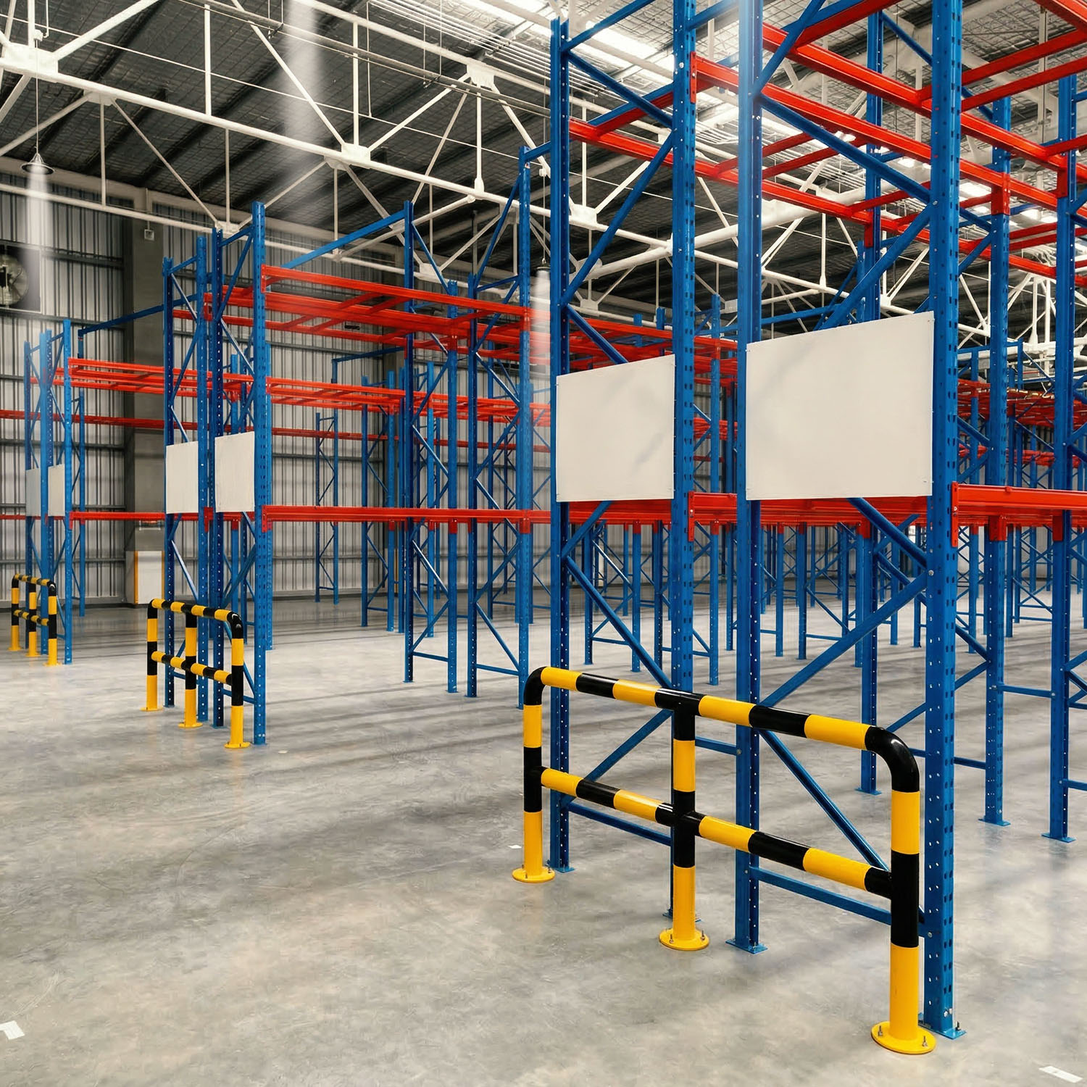
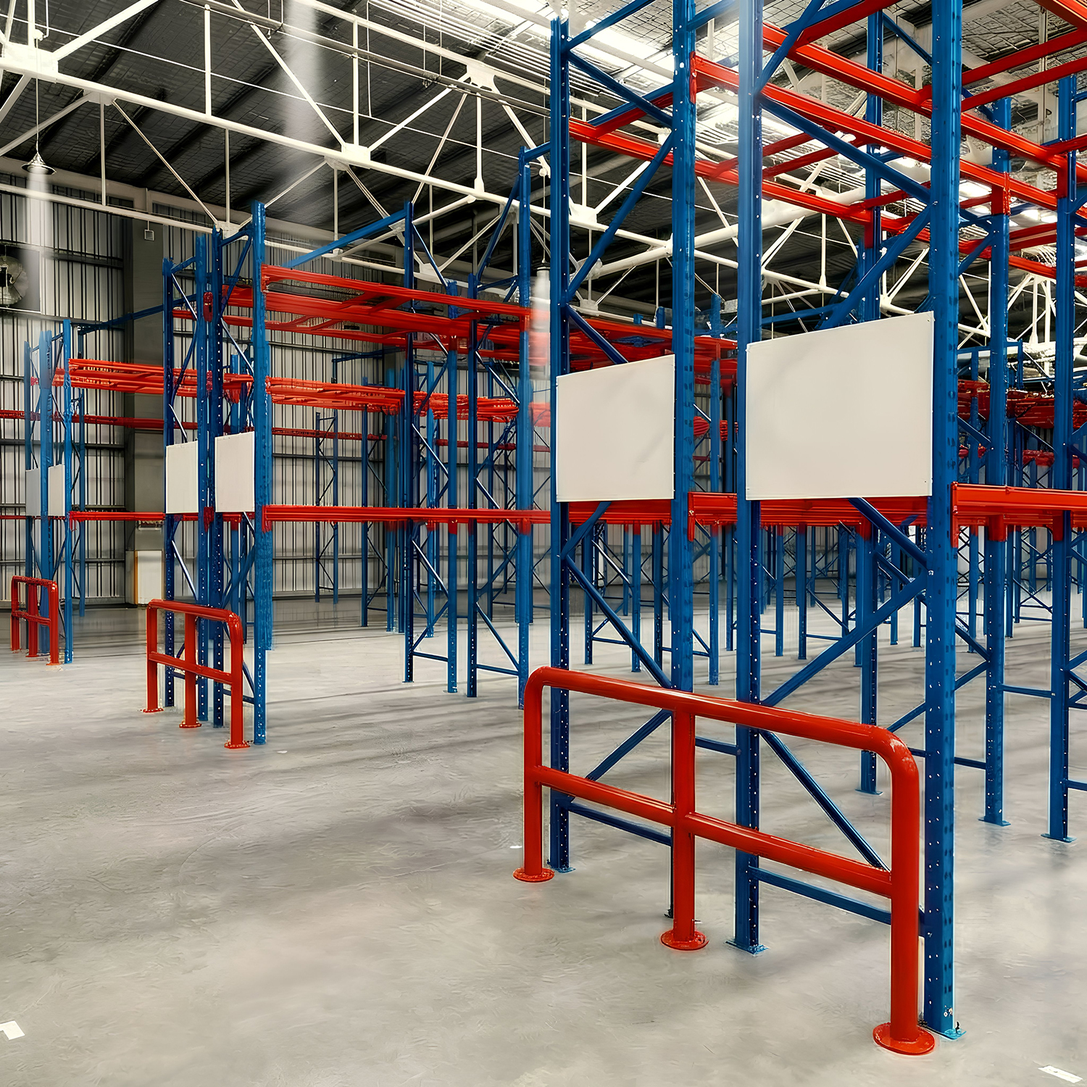
Update home stats, contact hours, WhatsApp CTA, and services predesigned rack image

Changed region(s): [[0.0, 0.0, 1.0, 0.9813], [0.9507, 0.7053, 1.0, 0.7973]]

diff --git a/src/components/layout/Header.tsx b/src/components/layout/Header.tsx
@@ -7,6 +7,9 @@ import logoDesktop from "@/assets/flint-logo-escritorio.png";
 import logoMobile from "@/assets/flint-logo-movil.png";
 import LanguageSwitcher from "@/components/ui/LanguageSwitcher";
 
+const WHATSAPP_URL =
+  "https://wa.me/525539073713?text=Estaba%20navegando%20la%20pagina%20web%20de%20Flint%20Racks%20y%20quiero%20m%C3%A1s%20informaci%C3%B3n";
+
 const navItems = [
   { labelKey: "home", path: "/" },
   { labelKey: "about", path: "/about" },
@@ -50,12 +53,14 @@ export default function Header() {
 
         <div className="flex items-center gap-4 lg:gap-6">
           {/* CTA Button */}
-          <Link
-            to="/contact"
+          <a
+            href={WHATSAPP_URL}
+            target="_blank"
+            rel="noopener noreferrer"
             className="hidden lg:inline-flex items-center gap-2 bg-primary text-primary-foreground font-body font-semibold text-sm px-6 py-3 hover:bg-red-deep transition-colors duration-200"
           >
             {t('navbar.cta')}
-          </Link>
+          </a>
 
           <LanguageSwitcher />
 
@@ -94,13 +99,15 @@ export default function Header() {
                   {t(`navbar.${item.labelKey}`)}
                 </Link>
               ))}
-              <Link
-                to="/contact"
+              <a
+                href={WHATSAPP_URL}
+                target="_blank"
+                rel="noopener noreferrer"
                 onClick={() => setMobileOpen(false)}
                 className="mt-2 inline-flex items-center justify-center bg-primary text-primary-foreground font-body font-semibold text-sm px-6 py-3"
               >
                 {t('navbar.cta')}
-              </Link>
+              </a>
             </nav>
           </motion.div>
         )}

diff --git a/src/pages/Index.tsx b/src/pages/Index.tsx
@@ -12,8 +12,7 @@ import CoverageCtaSection from "@/components/home/CoverageCtaSection";
 import aboutImg from "@/assets/home-nosotros-somos.webp";
 
 const stats = [
-  { value: "18+", labelKey: "years" },
-  { value: "1,200+", labelKey: "projects" },
+  { value: "300+", labelKey: "projects" },
   { value: "98%", labelKey: "satisfaction" },
   { value: "50+", labelKey: "team" },
 ];
@@ -72,7 +71,7 @@ export default function Index() {
       {/* Stats */}
       <section className="bg-iron py-16 lg:py-20">
         <div className="container-brand section-padding">
-          <div className="grid grid-cols-2 lg:grid-cols-4 gap-8">
+          <div className="max-w-5xl mx-auto grid grid-cols-1 sm:grid-cols-3 gap-8">
             {stats.map((stat, i) => (
               <motion.div
                 key={stat.labelKey}

diff --git a/src/i18n/locales/es.ts b/src/i18n/locales/es.ts
@@ -90,7 +90,7 @@ export default {
       title: "Tenemos una cobertura casi total ubicada en puntos estratégicos de la república mexicana",
       stat1_value: "98%",
       stat1_desc: "Del territorio mexicano cubierto",
-      stat2_value: "100%",
+      stat2_value: "98%",
       stat2_desc: "De clientes felices",
       cta: "Ver Cobertura"
     },
@@ -403,7 +403,7 @@ export default {
       address_value: "Ejército nacional No. 700 Piso 2 Interior 201, CDMX, México",
       contact_title: "Contáctanos",
       hours_title: "Horario",
-      hours_mon_fri: "Lun – Vie: 8:00 – 18:00",
+      hours_mon_fri: "Lun – Vie: 9:00 – 18:00",
       hours_sat: "Sábado y domingo: Cerrado",
       hours_sun: "Domingo: Cerrado"
     },

diff --git a/src/i18n/locales/en.ts b/src/i18n/locales/en.ts
@@ -90,7 +90,7 @@ export default {
       title: "We have almost total coverage located in strategic points of the Mexican Republic",
       stat1_value: "98%",
       stat1_desc: "Of Mexican territory covered",
-      stat2_value: "100%",
+      stat2_value: "98%",
       stat2_desc: "Happy clients",
       cta: "View Coverage"
     },
@@ -403,7 +403,7 @@ export default {
       address_value: "Ejército nacional No. 700 Piso 2 Interior 201, CDMX, Mexico",
       contact_title: "Contact Us",
       hours_title: "Hours",
-      hours_mon_fri: "Mon – Fri: 8:00 – 18:00",
+      hours_mon_fri: "Mon – Fri: 9:00 – 18:00",
       hours_sat: "Saturday and Sunday: Closed",
       hours_sun: "Sunday: Closed"
     },

diff --git a/src/components/layout/WhatsAppFloat.tsx b/src/components/layout/WhatsAppFloat.tsx
@@ -1,0 +1,22 @@
+import whatsappLogo from "@/assets/whatsapp-logo.webp";
+
+const WHATSAPP_URL =
+  "https://wa.me/525539073713?text=Estaba%20navegando%20la%20pagina%20web%20de%20Flint%20Racks%20y%20quiero%20m%C3%A1s%20informaci%C3%B3n";
+
+export default function WhatsAppFloat() {
+  return (
+    <a
+      href={WHATSAPP_URL}
+      target="_blank"
+      rel="noopener noreferrer"
+      aria-label="Abrir WhatsApp de Flint Racks"
+      className="fixed bottom-4 right-4 md:bottom-6 md:right-6 z-[60]"
+    >
+      <img
+        src={whatsappLogo}
+        alt="WhatsApp Flint Racks"
+        className="w-[60px] md:w-[70px] h-auto"
+      />
+    </a>
+  );
+}

diff --git a/src/components/layout/Layout.tsx b/src/components/layout/Layout.tsx
@@ -1,6 +1,7 @@
 import { Outlet } from "react-router-dom";
 import Header from "./Header";
 import Footer from "./Footer";
+import WhatsAppFloat from "./WhatsAppFloat";
 
 export default function Layout() {
   return (
@@ -9,6 +10,7 @@ export default function Layout() {
       <main className="flex-1 pt-20">
         <Outlet />
       </main>
+      <WhatsAppFloat />
       <Footer />
     </div>
   );
